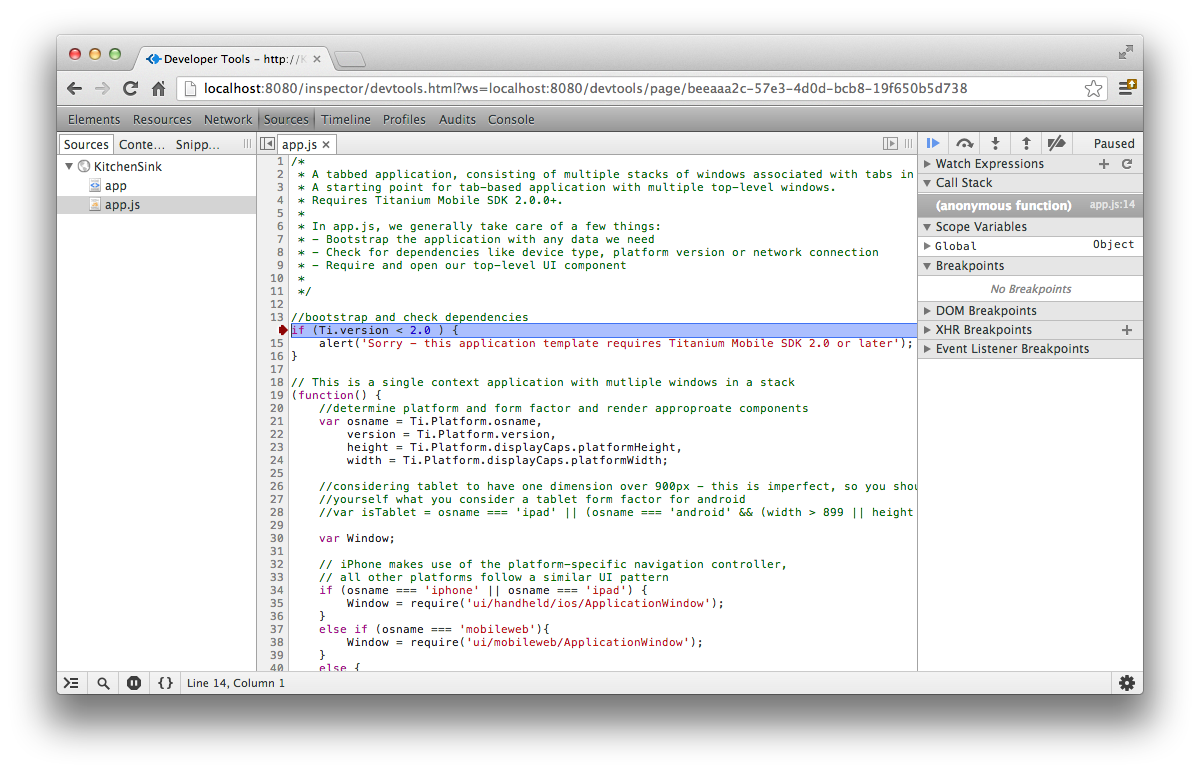
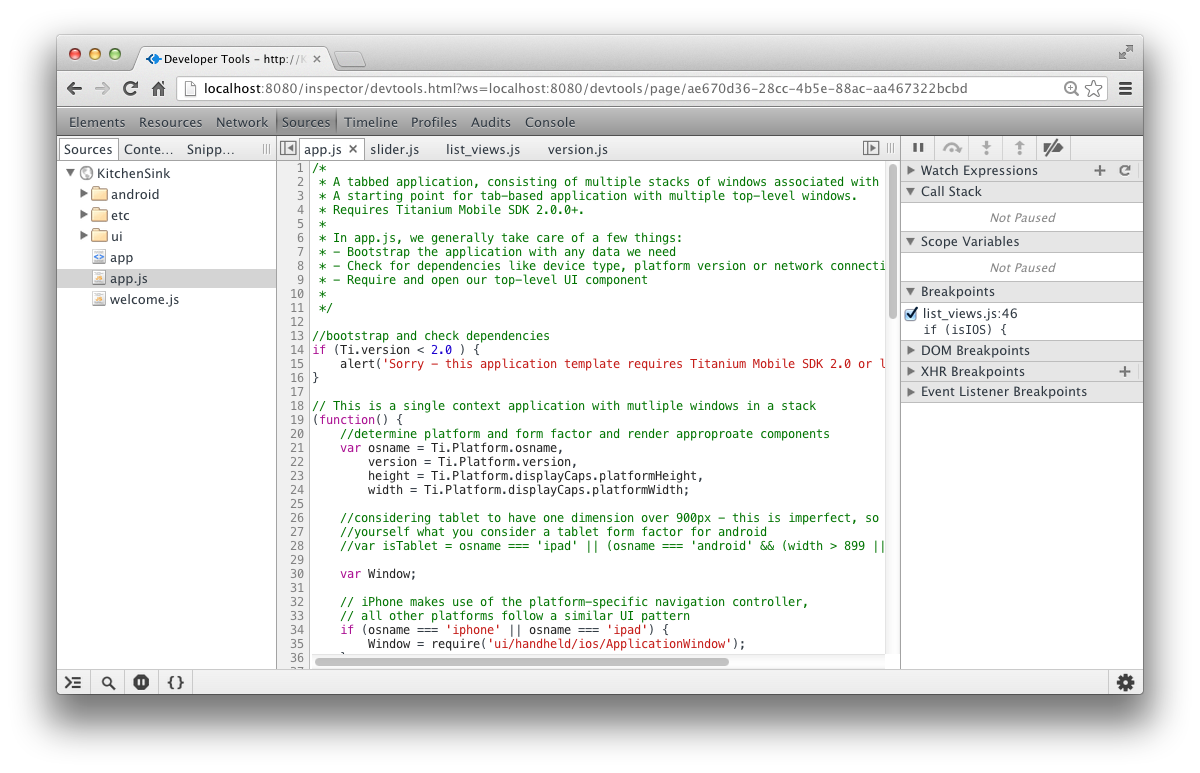
updated readme

Changed region(s): [[0.0308, 0.0621, 0.9558, 0.9004], [0.925, 0.8693, 0.9558, 0.9004]]

diff --git a/README.md b/README.md
@@ -72,7 +72,7 @@ Once the app is running in the iOS Simulator, only the splash screen will be vis
 ![](./screenshots/web-active-session.png)
 
 
-By clicking on it, the DevTools page will be open, showing the `app.js` file source code, stopped on the first executable line:
+By clicking on it, the DevTools page will be open, showing the `app.js` file source code.
 
 ![](./screenshots/debug-session.png)
 
